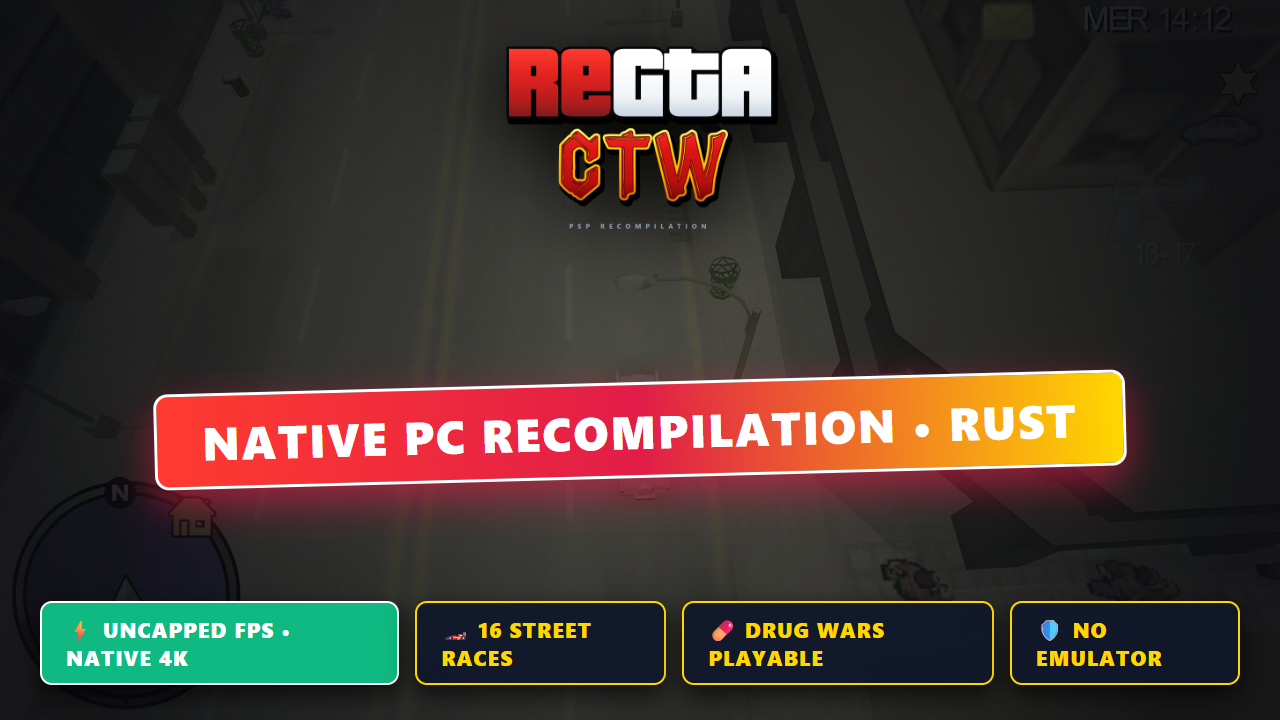
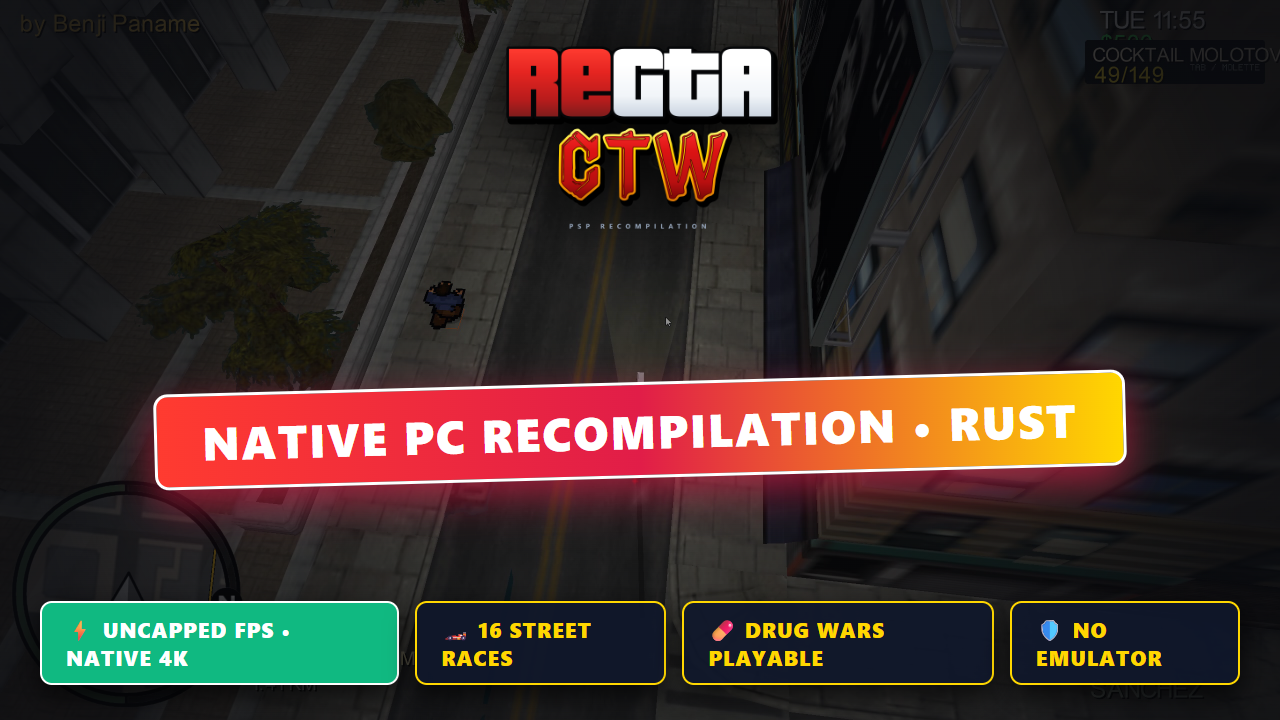
feat(video): composite final YouTube devlog and thumbnail from Benjamin's native Rust gameplay recording

diff --git a/tools/video/generate_youtube_video.py b/tools/video/generate_youtube_video.py
@@ -600,12 +600,20 @@ body {{
 
 
 def build_thumbnail_html() -> str:
-    """Builds 1280x720 YouTube Thumbnail using transparent logo."""
+    """Builds 1280x720 YouTube Thumbnail using transparent logo and custom or reference gameplay background."""
     logo_trans_uri = LOGO_TRANSPARENT_PATH.resolve().as_uri()
-    # Extract background frame from v2 gameplay at 25s for real action background
     bg_frame = TEMP_DIR / "thumb_bg.jpg"
+    
+    custom_clip = OUTPUT_DIR / "custom_gameplay.mp4"
+    if custom_clip.exists() and custom_clip.stat().st_size > 1024:
+        bg_source = custom_clip
+        bg_seek = "45"  # 45s in custom recording is the Sanchez motorcycle cruising down the avenue
+    else:
+        bg_source = GAMEPLAY_V2
+        bg_seek = "25"
+
     subprocess.run([
-        FFMPEG_EXE, "-ss", "25", "-i", str(GAMEPLAY_V2),
+        FFMPEG_EXE, "-ss", bg_seek, "-i", str(bg_source),
         "-vframes", "1", "-q:v", "2", str(bg_frame), "-y"
     ], stdout=subprocess.DEVNULL, stderr=subprocess.DEVNULL)
     bg_uri = bg_frame.resolve().as_uri() if bg_frame.exists() else ""
